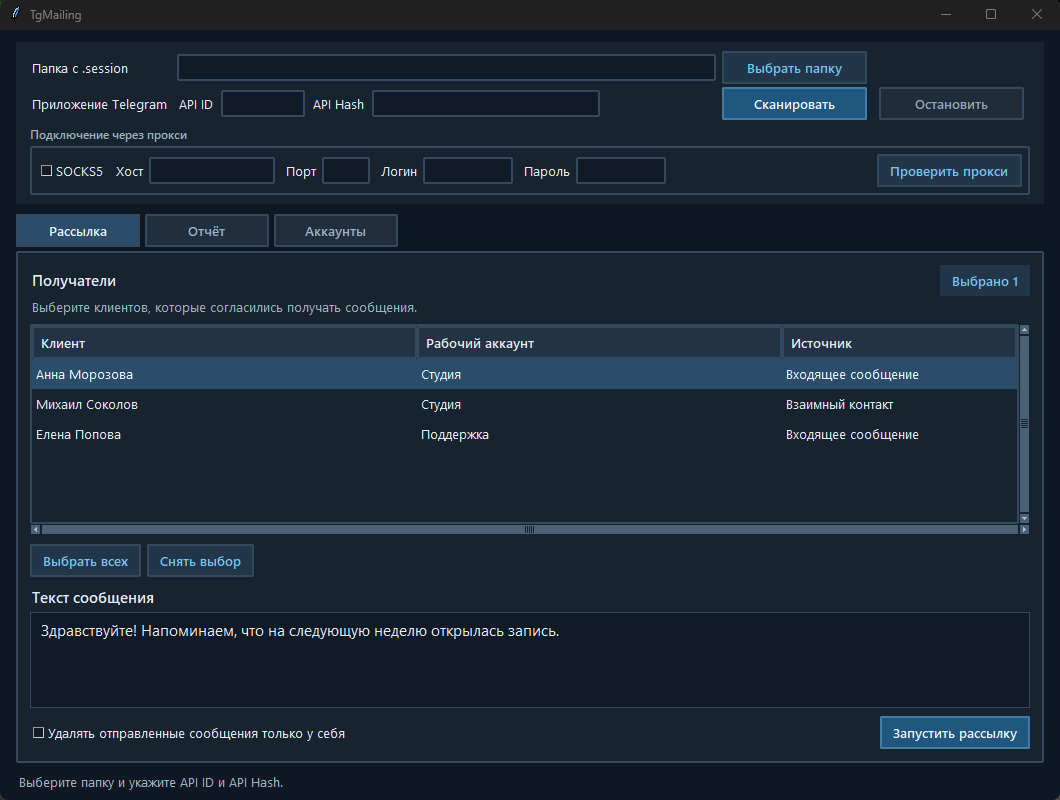
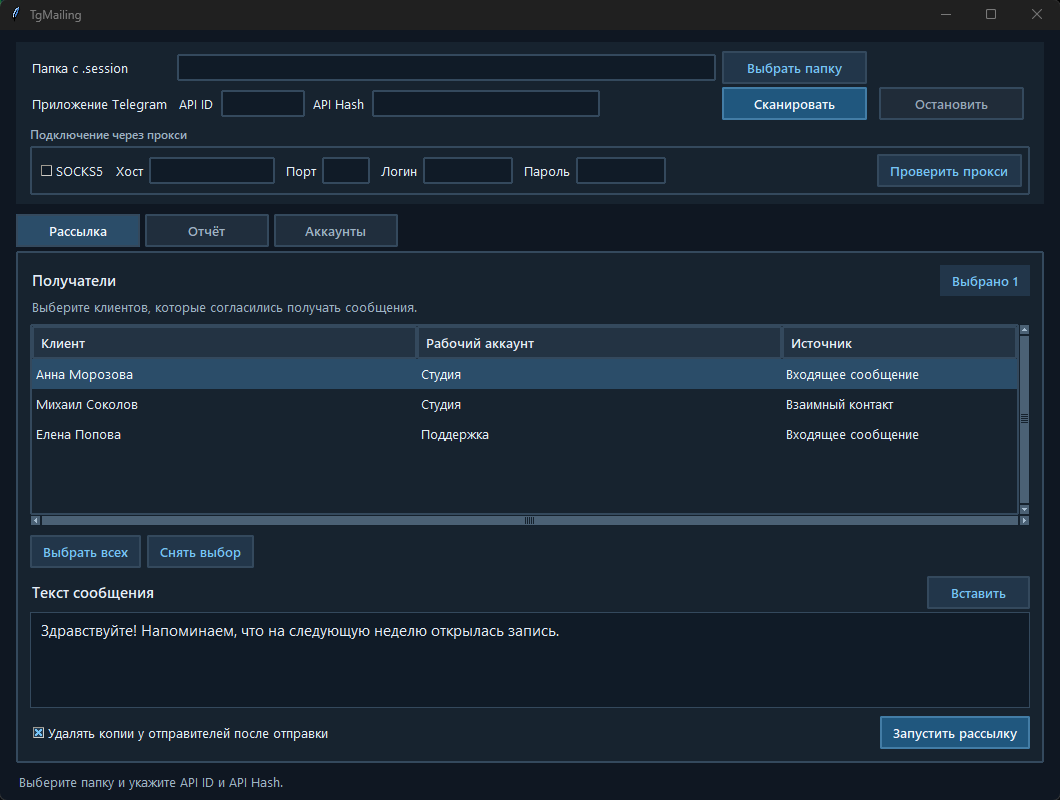
Fix clipboard paste and verify sender-side deletion

Changed region(s): [[0.0311, 0.625, 0.9651, 0.7812], [0.0934, 0.9062, 0.3425, 0.9375], [0.8717, 0.7188, 0.9962, 0.7812]]

diff --git a/app.py b/app.py
@@ -41,6 +41,9 @@ def database():
             id INTEGER PRIMARY KEY, created TEXT DEFAULT CURRENT_TIMESTAMP,
             body TEXT NOT NULL, delete_copy INTEGER NOT NULL
         );
+        CREATE TABLE IF NOT EXISTS preference (
+            name TEXT PRIMARY KEY, value INTEGER NOT NULL
+        );
         CREATE TABLE IF NOT EXISTS account_wait (
             account INTEGER PRIMARY KEY, until REAL NOT NULL
         );
@@ -253,6 +256,9 @@ def update(db, row, **fields):
 async def clean_copy(db, row, client, peer, message_id):
     try:
         await asyncio.wait_for(client.delete_messages(peer, [message_id], revoke=False), 30)
+        remaining = await asyncio.wait_for(client.get_messages(peer, ids=message_id), 30)
+        if remaining is not None:
+            raise ValueError("Сообщение ещё видно в истории отправителя.")
     except Exception as exc:
         if isinstance(exc, FLOOD_ERRORS):
             save_wait(db, row["account"], exc)
@@ -413,6 +419,22 @@ def dark_title_bar(root):
 
 
 
+def paste_shortcut(event):
+    # Windows reports the same virtual key for V under Cyrillic and Latin layouts.
+    if event.keycode == 0x56 or event.keysym.lower() == "v":
+        event.widget.event_generate("<<Paste>>")
+        return "break"
+
+
+def bind_paste_shortcut(parent):
+    for widget in parent.winfo_children():
+        if isinstance(widget, (ttk.Entry, tk.Text)):
+            widget.bind("<Control-KeyPress>", paste_shortcut, add="+")
+        bind_paste_shortcut(widget)
+
+
+
+
 class App:
     def __init__(self, root):
         self.root = root
@@ -507,18 +529,26 @@ class App:
         ttk.Button(choices, text="Снять выбор", command=lambda: self.recipients.selection_set([])).pack(side="left", padx=6)
         self.recipients.bind("<<TreeviewSelect>>", self.show_selection)
 
-        ttk.Label(composer, text="Текст сообщения", style="Section.TLabel").pack(anchor="w", pady=(8, 3))
+        composer_header = ttk.Frame(composer)
+        composer_header.pack(fill="x", pady=(8, 3))
+        ttk.Label(composer_header, text="Текст сообщения", style="Section.TLabel").pack(side="left")
+        ttk.Button(composer_header, text="Вставить", command=self.paste_body).pack(side="right")
         self.body = tk.Text(composer, height=4, wrap="word", font=("Segoe UI", 11),
                             bg="#101b27", fg="#e5edf6", insertbackground="#e5edf6",
                             selectbackground="#2b4d69", selectforeground="#f0f8ff",
                             padx=10, pady=7, bd=0, highlightthickness=1,
                             highlightbackground="#34495d", highlightcolor="#6eb9ee")
         self.body.pack(fill="x")
+        body_menu = tk.Menu(self.body, tearoff=False, bg="#17232f", fg="#e5edf6",
+                            activebackground="#2b4d69", activeforeground="#f0f8ff")
+        body_menu.add_command(label="Вставить", command=self.paste_body)
+        self.body.bind("<Button-3>", lambda event: body_menu.post(event.x_root, event.y_root))
         bottom = ttk.Frame(composer)
         bottom.pack(fill="x", pady=(8, 0))
-        self.delete_copy = tk.BooleanVar()
-        ttk.Checkbutton(bottom, text="Удалять отправленные сообщения только у себя",
-                        variable=self.delete_copy).pack(side="left")
+        preference = self.db.execute("SELECT value FROM preference WHERE name = 'delete_copy'").fetchone()
+        self.delete_copy = tk.BooleanVar(value=bool(preference["value"]) if preference else True)
+        ttk.Checkbutton(bottom, text="Удалять копии у отправителей после отправки",
+                        variable=self.delete_copy, command=self.save_delete_preference).pack(side="left")
         self.button(bottom, "Запустить рассылку", self.start_campaign, style="Primary.TButton").pack(side="right")
 
         report_top = ttk.Frame(report)
@@ -542,6 +572,16 @@ class App:
         root.protocol("WM_DELETE_WINDOW", self.close)
         root.after(120, self.poll)
         self.load_history()
+        bind_paste_shortcut(root)
+
+    def paste_body(self):
+        self.body.focus_set()
+        self.body.event_generate("<<Paste>>")
+
+    def save_delete_preference(self):
+        with self.db:
+            self.db.execute("INSERT OR REPLACE INTO preference VALUES ('delete_copy', ?)",
+                            (self.delete_copy.get(),))
 
     def highlight_navigation(self, event=None):
         active = self.tabs.select()

diff --git a/README.md b/README.md
@@ -20,7 +20,7 @@
 3. Выберите папку с авторизованными файлами Telethon `.session` своих рабочих аккаунтов и укажите данные приложения Telegram API.
 4. Если нужен прокси, включите SOCKS5, укажите хост, порт и данные авторизации при необходимости. Нажмите **Проверить прокси**.
 5. Нажмите **Сканировать**. Проверьте сводку на вкладке **Аккаунты**, а на вкладке **Рассылка** выберите клиентов, которые ожидают сообщение.
-6. Введите текст, при необходимости включите удаление только у отправителя и нажмите **Запустить рассылку**. Проверьте список и текст в окне подтверждения.
+6. Введите текст или нажмите **Вставить**. Удаление копий у отправителей включено по умолчанию, галочку можно снять. Нажмите **Запустить рассылку**. Проверьте список и текст в окне подтверждения.
 7. Откройте вкладку **Отчёт**, чтобы посмотреть результаты, экспортировать CSV или продолжить остановленную очередь.
 
 Статус «Отправлено» означает, что Telegram подтвердил отправку. При неизвестном результате проверьте чат в Telegram вручную перед повтором. Если Telegram требует ожидания, продолжите очередь после указанного срока.
